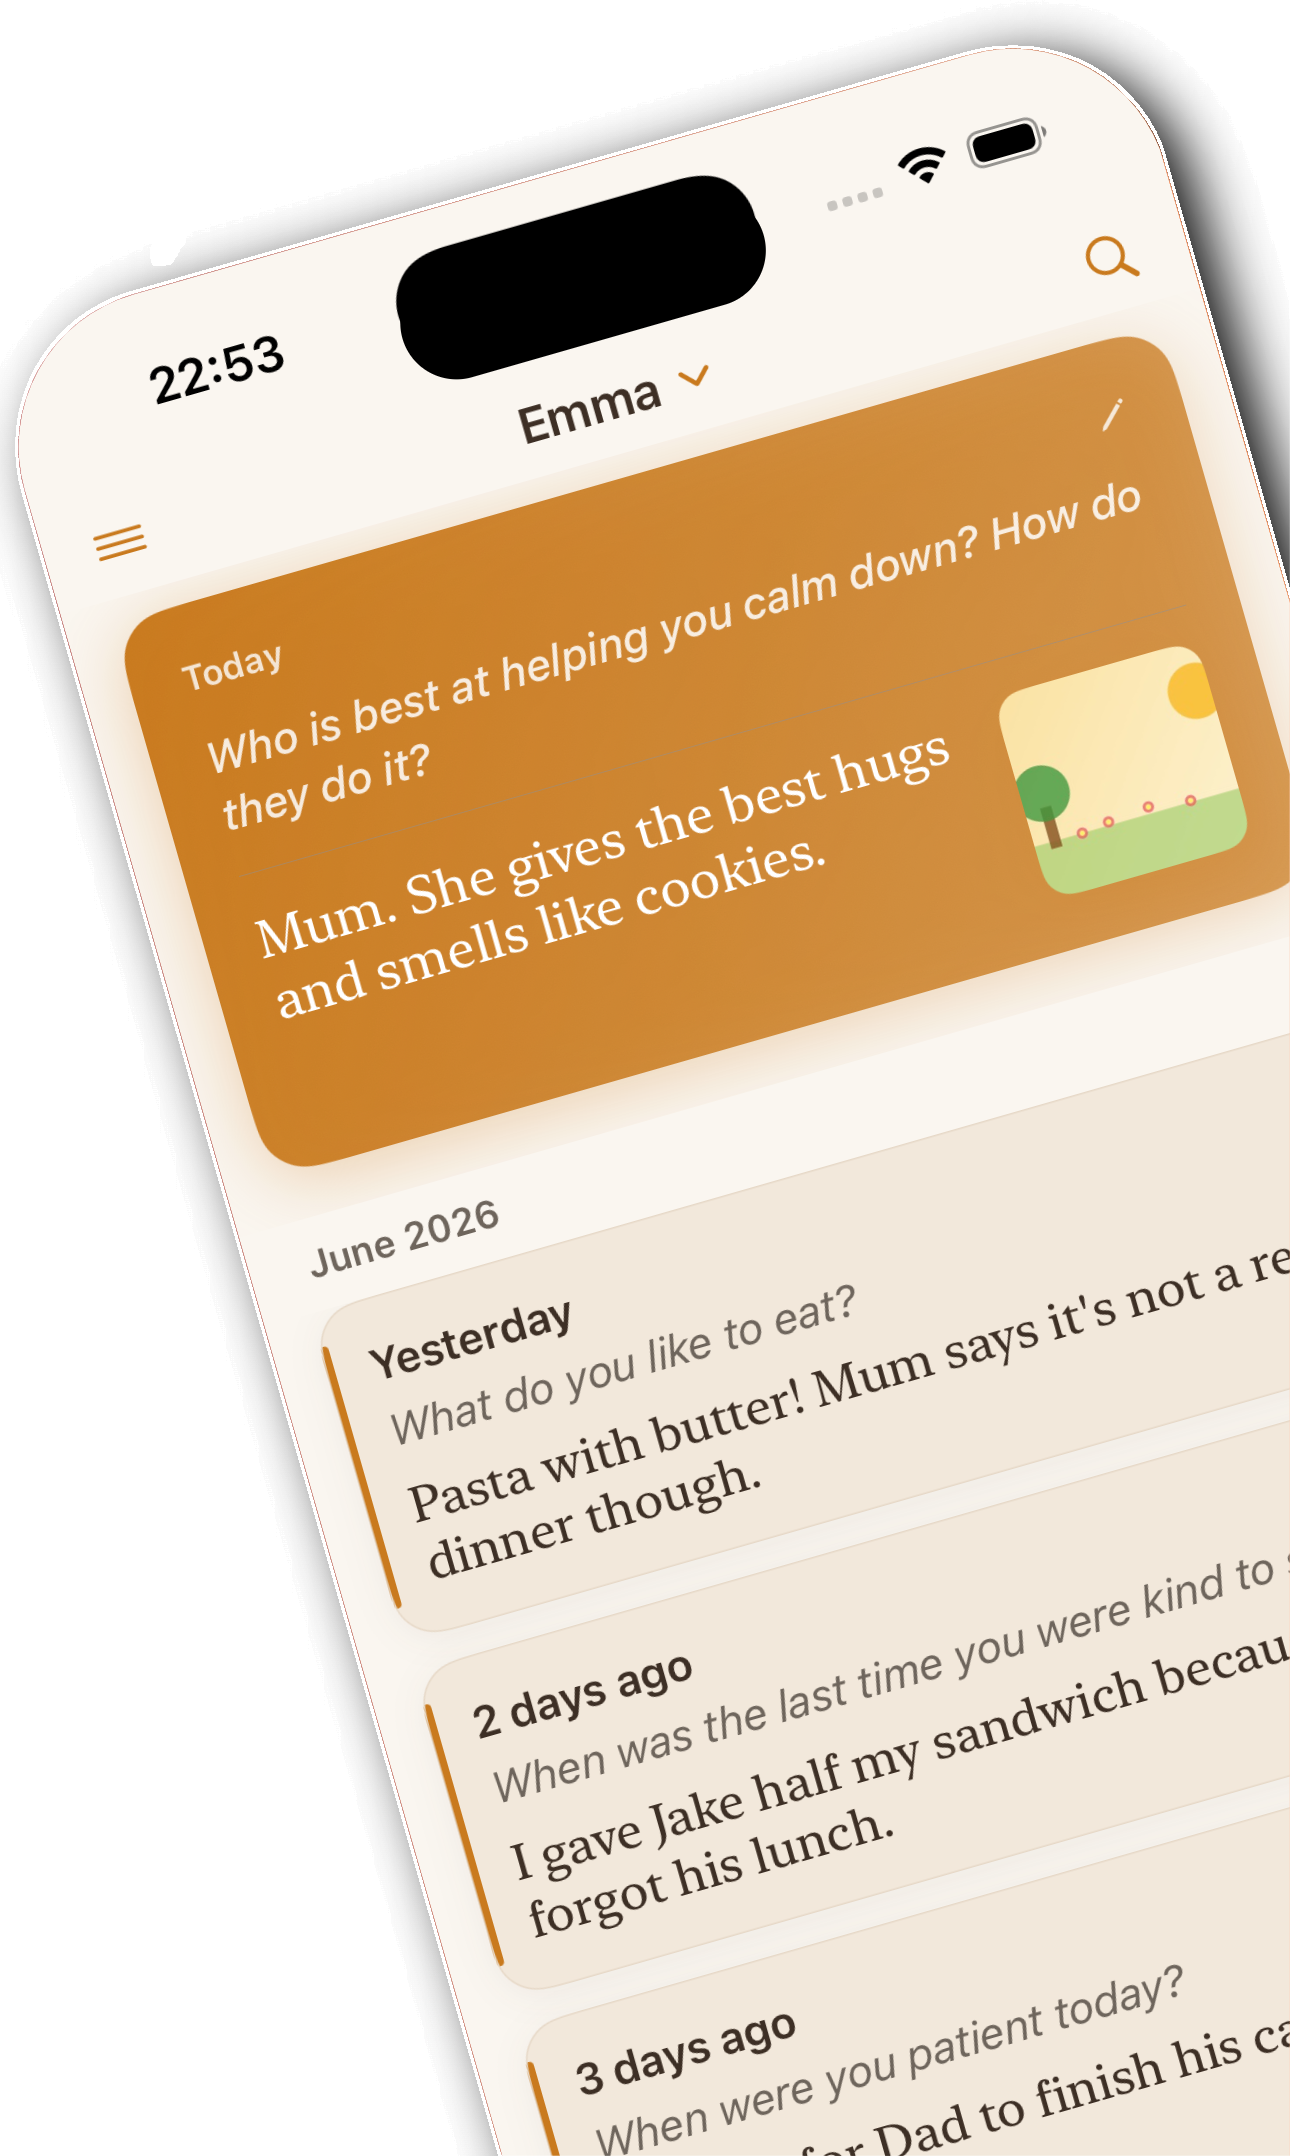
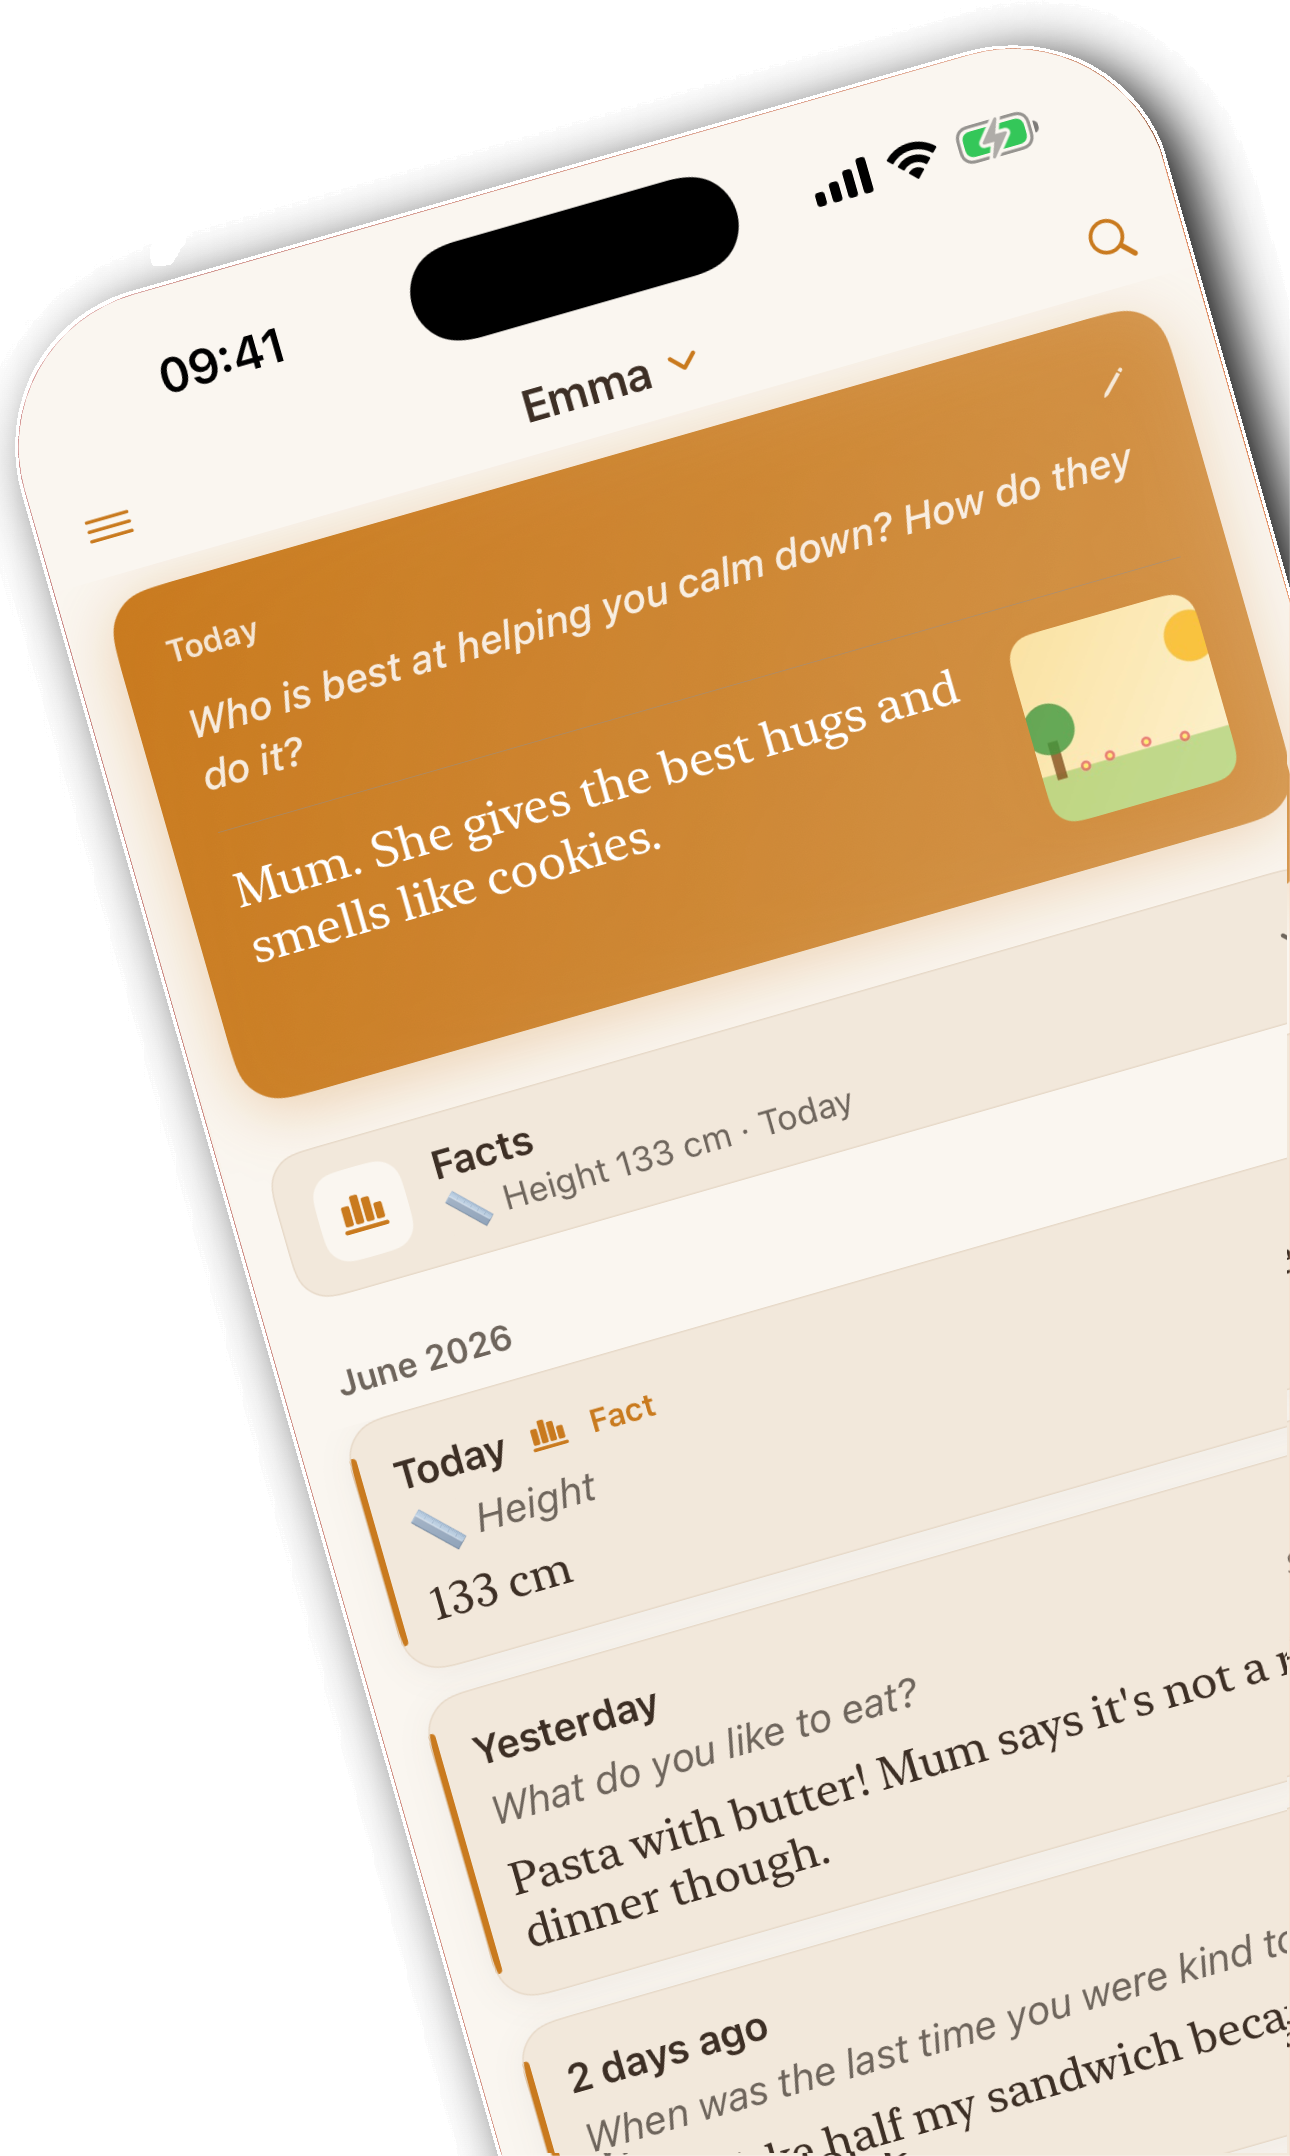
Rebuild phone layers from the 1.1 screenshots and add page 6 (facts) layers
Claude-Session: https://claude.ai/code/session_01RysN6u6ztiAhNhJ4pBs71C

diff --git a/design/screenshots-1.1/build_phones.py b/design/screenshots-1.1/build_phones.py
@@ -20,7 +20,9 @@ HERE = os.path.dirname(os.path.abspath(__file__))
 LAYERS = os.path.join(HERE, "..", "canva-layers")
 
 # page -> screenshot number (see README.md in this folder)
-PAGES = {1: 1, 2: 2, 3: 3, 4: 4, 5: 5}
+PAGES = {1: 1, 2: 2, 3: 3, 4: 4, 5: 5, 6: 7}
+# Page 6 (facts) reuses page 5's phone shape and shadow, placed lower on the page.
+PAGE6_TOP = 900
 
 
 def warp(shot, tl, ex, ey, width, size):
@@ -92,11 +94,16 @@ def build(lang, shots, out_dir):
     pos = json.load(open(os.path.join(LAYERS, "positions.json")))
     page_w = 1290
     tl, ex, ey, width = rotated_geometry(lang)
-    for page in range(1, 6):
+    for page in range(1, 7):
         name = f"phone_{lang}{page}.png"
-        layer = cv2.imread(os.path.join(LAYERS, name), cv2.IMREAD_UNCHANGED)
+        if page == 6:
+            layer = cv2.imread(os.path.join(LAYERS, f"phone_{lang}5.png"), cv2.IMREAD_UNCHANGED)
+            layer = layer[: 2796 - PAGE6_TOP]
+            p = dict(pos[f"{lang}5"], top=PAGE6_TOP)
+        else:
+            layer = cv2.imread(os.path.join(LAYERS, name), cv2.IMREAD_UNCHANGED)
+            p = pos[f"{lang}{page}"]
         h, w = layer.shape[:2]
-        p = pos[f"{lang}{page}"]
         shot = shots[PAGES[page]]
         full = np.full((h, w), 255, np.uint8)
         if page == 1:
